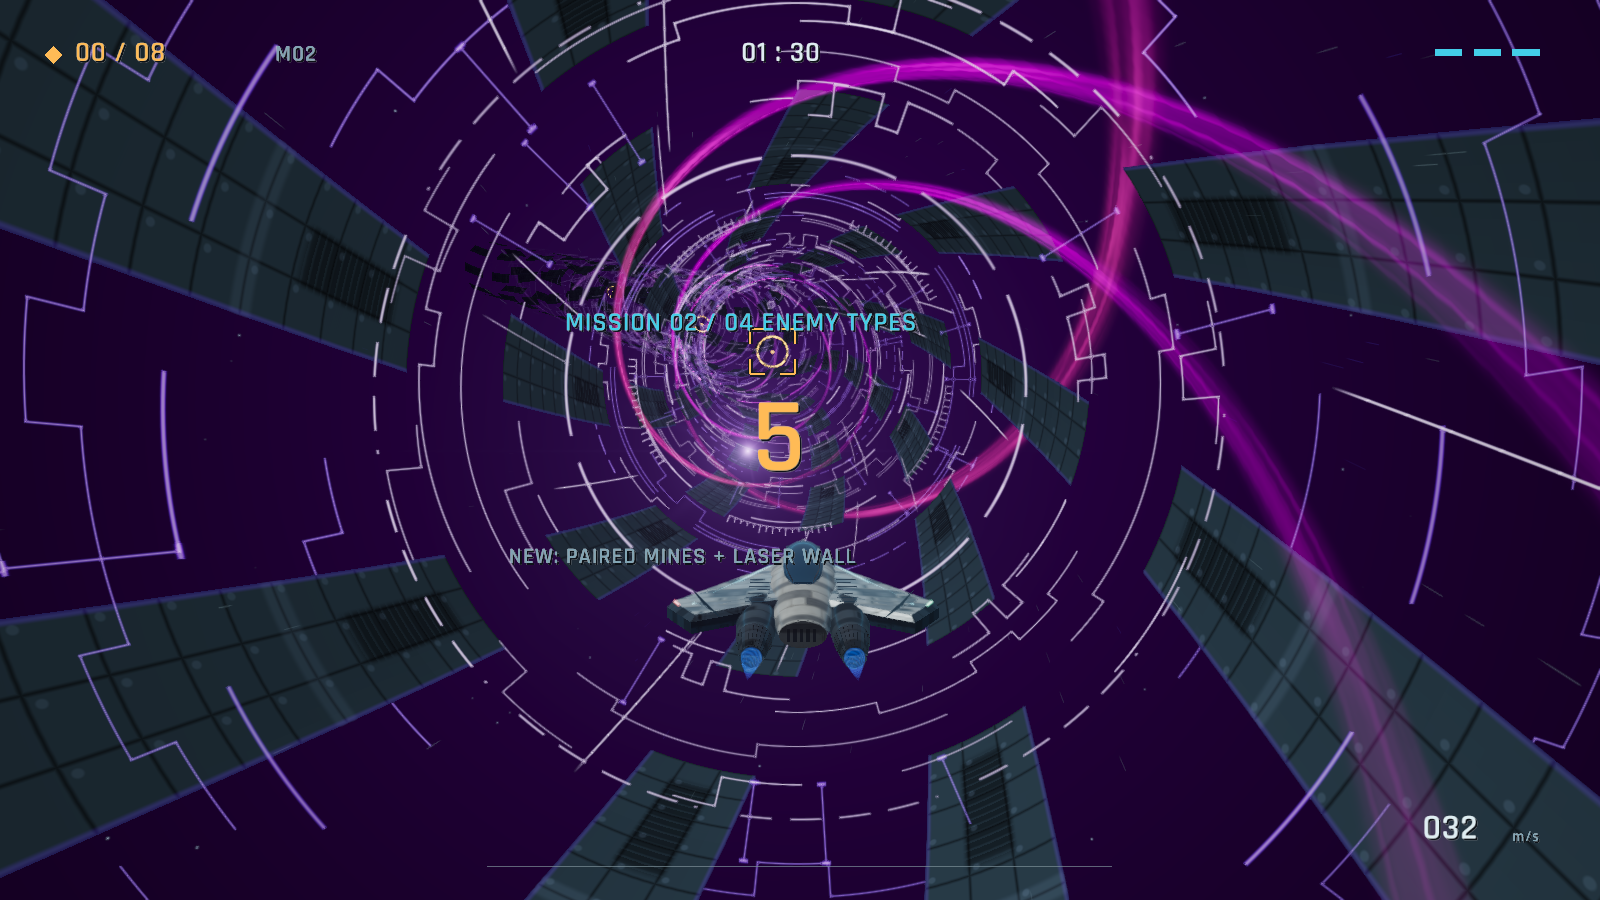
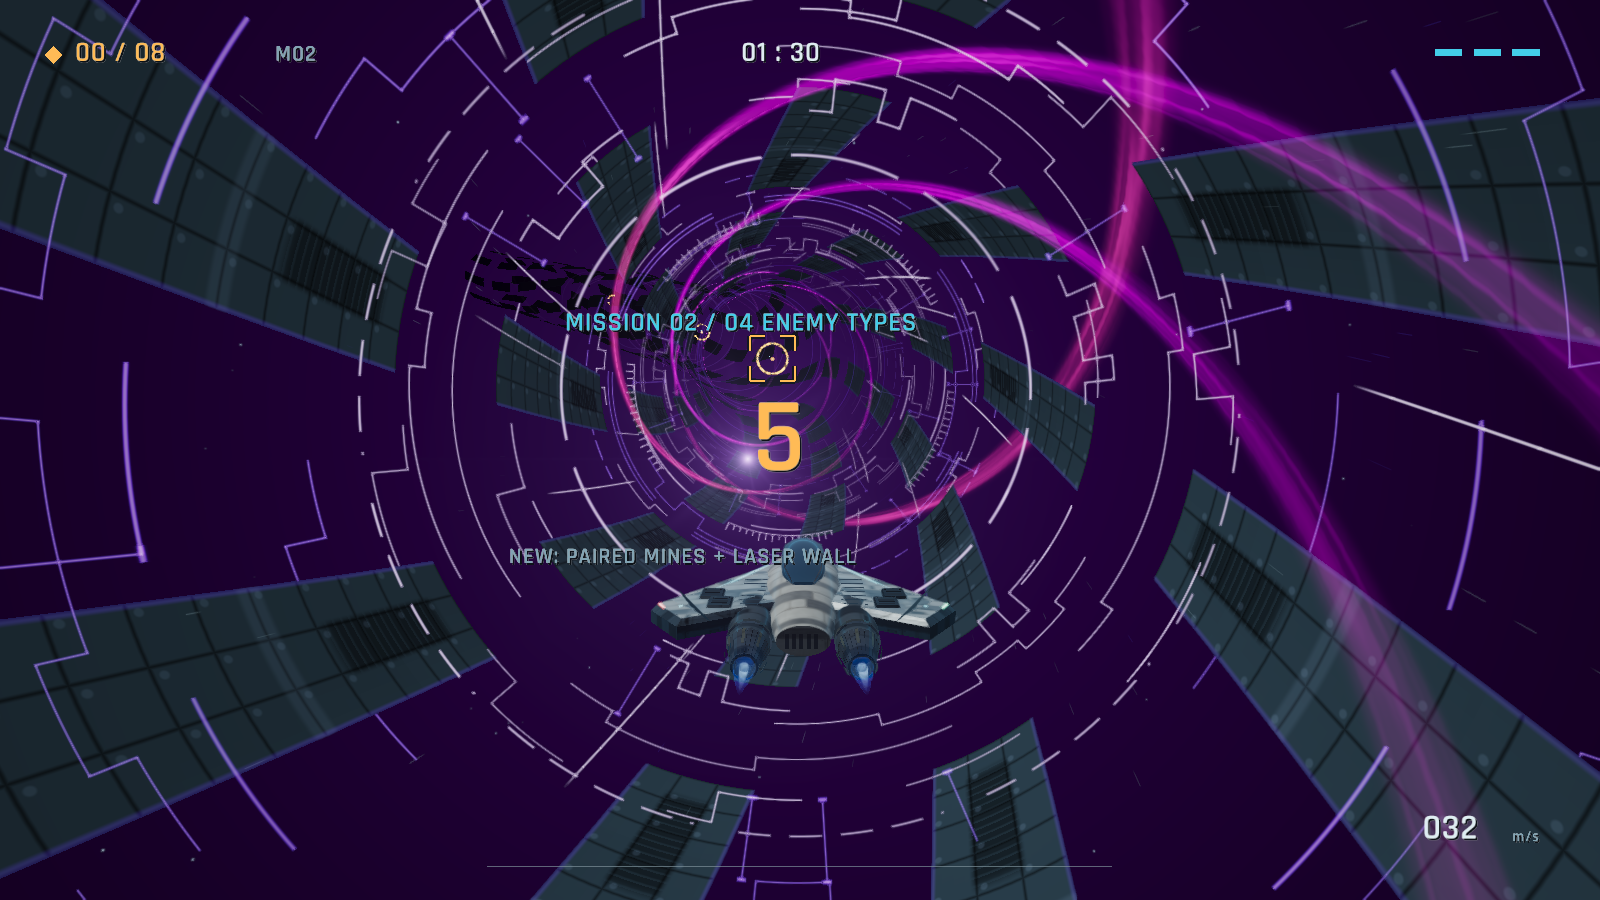
Quiet distant tunnel detail and refine ship hardware and exhaust

diff --git a/sandbox/cybertunnel/src/render/shipmodel.c b/sandbox/cybertunnel/src/render/shipmodel.c
@@ -9,6 +9,51 @@ static void face(LineGeo *g, Vector3 a, Vector3 b, Vector3 c, Vector3 d, Vector3
     lg_fill_quad(g,a,b,c,d,n,(LineAttr){.color=color,.intensity=1,.group=material});
 }
 typedef struct Section { float z,w,h,y; } Section;
+static void collar(LineGeo *g,float cx,float z,float radius)
+{
+    for(int k=0;k<24;k++) {
+        float a=k*2*PI/24,b=(k+1)*2*PI/24;
+        Vector3 p[8];
+        for(int j=0;j<8;j++) {
+            float angle=(j&1)?b:a,r=(j&2)?radius-.018f:radius;
+            p[j]=(Vector3){cx+r*cosf(angle),-.05f+r*sinf(angle),z+((j&4)?-.055f:0)};
+        }
+        Vector3 radial={cosf((a+b)*.5f),sinf((a+b)*.5f),0};
+        face(g,p[0],p[1],p[5],p[4],radial,(Color){174,164,145,255},3);
+        face(g,p[2],p[6],p[7],p[3],Vector3Negate(radial),(Color){35,43,50,255},2);
+        face(g,p[0],p[2],p[3],p[1],(Vector3){0,0,1},(Color){107,119,130,255},3);
+        face(g,p[4],p[5],p[7],p[6],(Vector3){0,0,-1},(Color){152,162,170,255},3);
+    }
+}
+static void fastener(LineGeo *g,float x,float y,float z)
+{
+    for(int k=0;k<8;k++) {
+        float a=k*2*PI/8,b=(k+1)*2*PI/8;
+        Vector3 p={x+.013f*cosf(a),y,z+.013f*sinf(a)},q={x+.013f*cosf(b),y,z+.013f*sinf(b)};
+        Vector3 topP=Vector3Add(p,(Vector3){0,.006f,0}),topQ=Vector3Add(q,(Vector3){0,.006f,0});
+        face(g,p,q,topQ,topP,(Vector3){cosf(a),0,sinf(a)},(Color){91,102,109,255},3);
+        lg_fill_tri(g,(Vector3){x,y+.006f,z},topQ,topP,(Vector3){0,1,0},(LineAttr){.color={188,192,190,255},.intensity=1,.group=3});
+    }
+    for(int axis=0;axis<2;axis++) {
+        float sx=axis?.002f:.008f,sz=axis?.008f:.002f;
+        face(g,(Vector3){x-sx,y+.0065f,z-sz},(Vector3){x+sx,y+.0065f,z-sz},(Vector3){x+sx,y+.0065f,z+sz},(Vector3){x-sx,y+.0065f,z+sz},
+            (Vector3){0,1,0},(Color){20,28,35,255},2);
+    }
+}
+static void service_hatch(LineGeo *g,float x,float y,float z)
+{
+    Vector3 edge[4]={{x-.115f,y,z-.135f},{x+.115f,y,z-.135f},{x+.115f,y,z+.135f},{x-.115f,y,z+.135f}},top[4];
+    for(int k=0;k<4;k++)top[k]=(Vector3){x+(edge[k].x-x)*.86f,y+.021f,z+(edge[k].z-z)*.86f};
+    face(g,top[0],top[1],top[2],top[3],(Vector3){0,1,0},(Color){125,146,157,255},3);
+    for(int k=0;k<4;k++)face(g,edge[k],edge[(k+1)%4],top[(k+1)%4],top[k],(Vector3){0,1,0},(Color){61,76,87,255},3);
+    for(int side=-1;side<=1;side+=2)fastener(g,x+side*.075f,y+.021f,z+.075f);
+    // Recessed cooling louvers in the service panel, with raised metal lips.
+    for(int k=0;k<4;k++) {
+        float vz=z-.084f+k*.037f;
+        face(g,(Vector3){x-.073f,y+.022f,vz},(Vector3){x+.073f,y+.022f,vz},(Vector3){x+.073f,y+.022f,vz+.018f},(Vector3){x-.073f,y+.022f,vz+.018f},(Vector3){0,1,0},(Color){17,27,35,255},2);
+        face(g,(Vector3){x-.073f,y+.026f,vz+.018f},(Vector3){x+.073f,y+.026f,vz+.018f},(Vector3){x+.073f,y+.022f,vz+.023f},(Vector3){x-.073f,y+.022f,vz+.023f},(Vector3){0,1,0},(Color){169,177,178,255},3);
+    }
+}
 static float curved(float a,float b,float c,float d,float t)
 {
     return .5f*((2*b)+(-a+c)*t+(2*a-5*b+4*c-d)*t*t+(-a+3*b-3*c+d)*t*t*t);
@@ -69,8 +114,11 @@ void shipmodel_build(LineGeo *hull, LineGeo *lights, float engineIntensity)
         for(int i=0;i<4;i++) face(hull,top[i],bottom[i],bottom[(i+1)%4],top[(i+1)%4],(Vector3){side,0,0},(Color){61,87,106,255},0);
         const Section pod[]={{.10f,.10f,.10f,-.07f},{-.15f,.16f,.15f,-.06f},{-.50f,.21f,.20f,-.05f},{-.90f,.22f,.20f,-.05f},{-1.20f,.20f,.18f,-.05f},{-1.42f,.18f,.17f,-.05f}};
         loft(hull,pod,6,side*.48f,(Color){154,161,166,255},3);
+        collar(hull,side*.48f,-1.24f,.205f);
         // Raised armor plates, recessed intake slats and canopy rails.
         face(hull,(Vector3){side*.36f,.125f,.22f},(Vector3){side*1.27f,.13f,-.69f},(Vector3){side*1.0f,.17f,-1.08f},(Vector3){side*.38f,.19f,-.71f},(Vector3){0,1,0},(Color){211,220,226,255},0);
+        service_hatch(hull,side*.88f,.165f,-.62f);
+        service_hatch(hull,side*.77f,.195f,-.95f);
         for(int k=0;k<7;k++) {
             float z=-.21f-k*.12f;
             face(hull,(Vector3){side*.36f,.185f,z},(Vector3){side*.60f,.185f,z-.015f},(Vector3){side*.60f,.19f,z-.05f},(Vector3){side*.36f,.19f,z-.045f},(Vector3){0,1,0},(Color){24,38,49,255},0);
@@ -106,18 +154,30 @@ void shipmodel_nozzles(LineGeo *g,float boost)
                       {side*.48f+opening*cosf(b),-.05f+opening*sinf(b),-1.78f},
                       {side*.48f+opening*cosf(a),-.05f+opening*sinf(a),-1.78f}};
         face(g,p[0],p[1],p[2],p[3],(Vector3){cosf(a),sinf(a),0},(Color){141,144,151,255},3);
+        Vector3 lipA=p[3],lipB=p[2];
         for(int j=0;j<4;j++){p[j].x=side*.48f+(p[j].x-side*.48f)*.85f;p[j].y=-.05f+(p[j].y+.05f)*.85f;}
         face(g,p[3],p[2],p[1],p[0],(Vector3){-cosf(a),-sinf(a),0},(Color){25,38,48,255},2);
+        face(g,lipA,lipB,p[2],p[3],(Vector3){0,0,-1},(Color){111,115,117,255},4);
+        if(k%3==0) {
+            float angle=(a+b)*.5f,r=.16f+.05f*boost;
+            Vector3 across={-sinf(angle)*.014f,cosf(angle)*.014f,0},out={cosf(angle)*.006f,sinf(angle)*.006f,0};
+            Vector3 hinge={side*.48f+.197f*cosf(angle),-.05f+.197f*sinf(angle),-1.45f};
+            Vector3 tip={side*.48f+r*cosf(angle),-.05f+r*sinf(angle),-1.67f};
+            Vector3 h1=Vector3Subtract(hinge,across),h2=Vector3Add(hinge,across),t1=Vector3Subtract(tip,across),t2=Vector3Add(tip,across);
+            face(g,h1,h2,t2,t1,(Vector3){cosf(angle),sinf(angle),0},(Color){177,170,147,255},3);
+            face(g,h1,t1,Vector3Add(t1,out),Vector3Add(h1,out),Vector3Negate(across),(Color){69,78,86,255},3);
+            face(g,h2,Vector3Add(h2,out),Vector3Add(t2,out),t2,across,(Color){69,78,86,255},3);
+        }
     }
 }
 void shipmodel_flames(LineGeo *g)
 {
     lg_clear(g);
-    for(int side=-1;side<=1;side+=2)for(int z=0;z<16;z++)for(int k=0;k<32;k++) {
+    for(int layer=0;layer<2;layer++)for(int side=-1;side<=1;side+=2)for(int z=0;z<(layer?8:16);z++)for(int k=0;k<(layer?16:32);k++) {
         int base=lg_reserve(g,4,6);const int dz[4]={0,0,1,1},da[4]={0,1,1,0};
         for(int j=0;j<4;j++) {
-            float u=(z+dz[j])/16.0f,v=(k+da[j])/32.0f;
-            lg_vertex(g,(Vector3){cosf(v*2*PI),sinf(v*2*PI),-u},(Vector2){u,v},(Vector2){side,0},(Vector3){cosf(v*2*PI),sinf(v*2*PI),0},(Vector4){0},WHITE);
+            float u=(z+dz[j])/(layer?8.0f:16.0f),v=(k+da[j])/(layer?16.0f:32.0f);
+            lg_vertex(g,(Vector3){cosf(v*2*PI),sinf(v*2*PI),-u},(Vector2){u,v},(Vector2){side,(float)layer},(Vector3){cosf(v*2*PI),sinf(v*2*PI),0},(Vector4){0},WHITE);
         }
         lg_quad(g,base,0,1,2,3);
     }

diff --git a/sandbox/cybertunnel/src/env/env_vortex.c b/sandbox/cybertunnel/src/env/env_vortex.c
@@ -76,7 +76,7 @@ typedef struct VortexParams {
     float coreIntensity, coreSize, coreStreak, coreRays, bgGlow, dust;
     // pacing
     bool  pacing;
-    float curveDetail, themeHue;
+    float curveDetail, themeHue, detailNear, detailFar;
     bool showPanels;
     // layer toggles
     bool  showRings, showRibbons, showStreaks, showDebris, showHolo, showCore, showBackground;
@@ -233,6 +233,8 @@ static void vortex_register(Environment *env, ParamRegistry *reg)
     params_float(reg,g,"curveDetail",&p->curveDetail,1.0f,1.0f,4.0f);
     params_bool(reg,g,"showPanels",&p->showPanels,false);
     params_float(reg,g,"themeHue",&p->themeHue,0,0,1);
+    params_float(reg,g,"detailNear",&p->detailNear,45,20,120);
+    params_float(reg,g,"detailFar",&p->detailFar,125,80,300);
 }
 
 static PathStyle vortex_path_style(const Environment *env)
@@ -431,6 +433,12 @@ static void build_ring(const VortexState *st, ChunkCpu *c, const PathSystem *pat
         float pad = 0.16f * scale;
         lg_planar_arc(g, rInner, a - pad / rInner, a + pad / rInner, 0.0f, pad, 3.0f * DEG, at);
         lg_planar_arc(g, rOuter, a - pad / rOuter, a + pad / rOuter, 0.0f, pad, 3.0f * DEG, at);
+    }
+    // Sparse, smooth silhouettes replace the crowded small details at distance.
+    // Use the existing ring basis without advancing the deterministic RNG.
+    if(slot%3==0) {
+        LineAttr guide={.color=theme_color(p,COL_CYAN),.intensity=ringBright*.22f,.param=-1,.group=(float)slot};
+        lg_planar_arc(g,R*1.10f,0,TAU_F,0,.085f,4.5f*DEG,guide);
     }
 }
 
@@ -801,17 +809,21 @@ static void vortex_draw_emissive(Environment *env, const FrameContext *ctx, cons
     env_set_common_uniforms(sl, st->shRing, ctx);
     sl_f1(sl, st->shRing, "uPulseAmount", p->pulseAmount);
     sl_f1(sl, st->shRing, "uPulseSpeed", p->pulseSpeed);
+    sl_f2(sl, st->shRing, "uDetailRange", p->detailNear, fmaxf(p->detailFar,p->detailNear+1));
     env_set_common_uniforms(sl, st->shRibbon, ctx);
     sl_f1(sl, st->shRibbon, "uPeriod", (float)RIBBON_PERIOD);
     sl_v3(sl, st->shRibbon, "uColorA", ct_srgb_to_linear(theme_color(&st->p,COL_PURPLE)));
     sl_v3(sl, st->shRibbon, "uColorB", ct_srgb_to_linear(theme_color(&st->p,COL_BLUE)));
     sl_f1(sl, st->shRibbon, "uScroll", p->ribbonScroll);
+    sl_f3(sl, st->shRibbon, "uSceneryFade", p->detailNear, p->detailFar+70, .14f);
     env_set_common_uniforms(sl, st->shObject, ctx);
     sl_f3(sl, st->shObject, "uEdgeColor", 0, 0, 0);
     sl_f1(sl, st->shObject, "uEdgeMix", 0.0f);
     sl_f1(sl, st->shObject, "uFlicker", 0.35f);
+    sl_f3(sl, st->shObject, "uSceneryFade", p->detailNear+10, p->detailFar, 0);
     env_set_common_uniforms(sl, st->shFace, ctx);
     sl_f1(sl, st->shFace, "uDataRate", p->dataRate);
+    sl_f3(sl, st->shFace, "uSceneryFade", p->detailNear+10, p->detailFar, 0);
 
     static const int ORDER[6] = { B_RIBBONS, B_RINGS, B_RAILS, B_FACES, B_EDGES, B_HOLO };
     for (int pass = 0; pass < 6; pass++) {

diff --git a/sandbox/cybertunnel/tests/test_ship.c b/sandbox/cybertunnel/tests/test_ship.c
@@ -13,7 +13,15 @@ int main(void)
     if(open<closed*1.7f)failures++;
     LineGeo *all[]={&hull,&lights,&nozzle,&flame};
     for(int g=0;g<4;g++){if(all[g]->batchCount!=1)failures++;for(int i=0;i<all[g]->vcount*3;i++)if(!isfinite(all[g]->pos[i])||!isfinite(all[g]->nrm[i]))failures++;}
-    printf("ship: %d hull vertices, nozzle aperture %.3f -> %.3f, %d failures\n",hull.vcount,closed,open,failures);
+    // The requested 100-200 KB detail budget measures actual vertex/index data,
+    // not executable padding. Baseline mesh bytes are from the prior release.
+    int bytes=(hull.vcount+nozzle.vcount+flame.vcount)*60+(hull.icount+nozzle.icount+flame.icount)*2;
+    int addedBytes=bytes-1874472;
+    if(addedBytes<100*1024||addedBytes>200*1024)failures++;
+    int coreVertices=0;
+    for(int i=0;i<flame.vcount;i++)if(flame.uv2[i*2+1]>.5f)coreVertices++;
+    if(!coreVertices||coreVertices==flame.vcount)failures++;
+    printf("ship: %d hull vertices, %d added geometry bytes, layered exhaust, nozzle aperture %.3f -> %.3f, %d failures\n",hull.vcount,addedBytes,closed,open,failures);
     for(int g=0;g<4;g++)lg_free(all[g]);
     return failures?1:0;
 }

diff --git a/sandbox/cybertunnel/src/env/env_common.h b/sandbox/cybertunnel/src/env/env_common.h
@@ -20,6 +20,9 @@ static inline void env_set_common_uniforms(ShaderLib *sl, int sh, const FrameCon
     sl_f1(sl, sh, "uPixelScale", ctx->pixelScale);
     sl_f1(sl, sh, "uMinPx", a->minPixelWidth);
     sl_f1(sl, sh, "uIntensity", ctx->intensity);
+    // Only scenery opts into extra distance simplification. Ship lights and
+    // other environments may share shader entries with the tunnel.
+    sl_f3(sl, sh, "uSceneryFade", 0, 0, 1);
 }
 
 static inline float env_chunk_fade(const ChunkGpu *c, double time)

diff --git a/sandbox/cybertunnel/src/cybertunnel.c b/sandbox/cybertunnel/src/cybertunnel.c
@@ -231,6 +231,7 @@ static void draw_ship_emissive(CtTunnel *ct, const FrameContext *ctx)
     sl_f1(sl, sh, "uChunkFade", 1.0f);
     draw_mesh(ct, sh, ct->shipEdges, xf);
     sl_f1(sl,ct->shAfterburner,"uTime",ctx->shaderTime);
+    sl_v3(sl,ct->shAfterburner,"uCamPos",ctx->camera.position);
     sl_f1(sl,ct->shAfterburner,"uBoost",ctx->speedNorm);
     sl_f1(sl,ct->shAfterburner,"uPower",fminf(ct->core.engineIntensity*.22f,2.0f));
     draw_mesh(ct,ct->shAfterburner,ct->shipFlames,xf);

diff --git a/sandbox/cybertunnel/DATA_RUN.md b/sandbox/cybertunnel/DATA_RUN.md
@@ -93,8 +93,11 @@ freezes the musical transport and M mutes it. The audio callback receives atomic
 controls and performs no allocation, file access or game-state reads.
 
 Twin 24-petal metal exhaust nozzles widen from a 0.115 to 0.210 metre aperture.
-Separate tessellated jet meshes flare from short blue exhaust to long blue/orange
-afterburner flames, with animated turbulence and shock diamonds. Aperture, plume
+Separate outer-gas and hot-core jet meshes flare from short blue exhaust to long
+blue/orange afterburner flames, with animated turbulence, contracting shock
+diamonds, soft silhouettes and filtered wisps. Metallic nozzle lips and external
+actuator links follow the changing aperture; local blue exhaust light illuminates
+the aft hardware. Aperture, plume
 width/length, trail width, music and engine pitch all respond to actual speed.
 
 Enemy waves begin after the first two gates. The ten kinds have distinct behaviors:
@@ -116,9 +119,14 @@ and 1.2 second damage immunity. Successful laser openings award bonus points.
 ## Visual changes
 
 - Smooth procedural courier mesh: 64-sided cross-sections with interpolated
-  hull/canopy/pod profiles, smooth surface normals and 25,298 vertices. Beveled
+  hull/canopy/pod profiles, smooth surface normals and 26,786 hull vertices. Beveled
   wing armor, intake slats, fitted canopy rails, fins, twin engine pods,
   articulated nozzles, recessed dark rear bulkhead and navigation lights.
+  The latest pass adds four raised service hatches, sixteen cooling louvers,
+  eight cross-slot fasteners, two machined engine collars, nozzle rim thickness,
+  sixteen external actuators and a second exhaust layer. This adds **182,256
+  bytes (178 KiB)** of actual vertex/index data across the hull, nozzle and flame
+  meshes, generated at startup. It does not enlarge the existing texture.
 - Native 1254 × 1254 generated aircraft-metal albedo texture, with panel seams,
   rivets, machining and worn paint. Triplanar mapping, mipmaps and anisotropic
   filtering keep detail stable at different distances. A GGX lighting shader
@@ -151,6 +159,13 @@ only mission number, payload count, time, shield bars, speed, a thin progress li
   vents, rivets, grooves and cyan edge lights without filling the flight lane.
   Edge anti-aliasing is enabled for missions, and font atlases are larger for
   crisp HUD rendering at high resolutions.
+- Fine ring detail is full strength up to 45 metres, then fades smoothly to zero
+  by 125 metres. Sparse, smooth ring silhouettes retain distant tunnel shape.
+  Rails, decorative debris and holograms also fade; ribbons become softer and
+  distant wall panels lose their fine seams, rivets and vents. Nearby geometry
+  retains its tessellation and detail. Gameplay targets remain clear at distance.
+  `detailNear` and `detailFar` in the tunnel preset control the transition.
+  The tunnel chase camera is slightly closer to show the ship hardware.
 
 The tunnel and city are procedural and the gameplay is an endless arcade run.
 Peripheral wireframe debris and architecture are scenery; the authored hazards are the
@@ -230,7 +245,8 @@ from a folder containing only the EXE. These exercise actual rendering, audio
 and embedded-resource extraction. Music checks cover non-silent bounded output,
 tempo endpoints, pause/mute, and identical synthesis across different device
 buffer sizes, five arrangements, and warp tempo. The ship test checks finite geometry, stable dynamic buffer size
-and exhaust aperture expansion. Autoplay also checks held boost without any
+and exhaust aperture expansion, both exhaust layers, and the 100–200 KiB added
+geometry budget. Autoplay also checks held boost without any
 pickup events and verifies full movement time across a 120 ms frame. It reports
 speed and boost interruptions after acceleration. Seeds 17 and 83 clear six
 consecutive missions; seed 1 clears five before losing its shield in mission six.

diff --git a/README.md b/README.md
@@ -54,9 +54,13 @@ shorten. Amber data, red hazards and cyan safe openings keep their colors.
 ## Features
 
 - The original curved tunnel, rotating rings and helical ribbons, with smoother
-  curves, detailed wall panels and faint peripheral speed streaks.
+  curves, detailed wall panels and faint peripheral speed streaks. Fine scenery
+  fades between 45 and 125 metres; sparse smooth rings preserve distant depth
+  without filling the flight lane with overlapping line detail.
 - A smooth courier ship with painted-metal texture, material lighting,
-  articulated exhaust petals and blue/orange afterburner flames.
+  raised service hatches, fasteners, cooling louvers, machined engine collars,
+  articulated exhaust hardware and layered blue/orange afterburner flames.
+  The latest detail pass adds 182,256 bytes of vertex/index data.
 - Ten enemy types with distinct motion and collision shapes, introduced two
   per mission. Clear target brackets and a minimal flight HUD.
 - Original stereo techno synthesized live at 48 kHz, rising from **140 to
